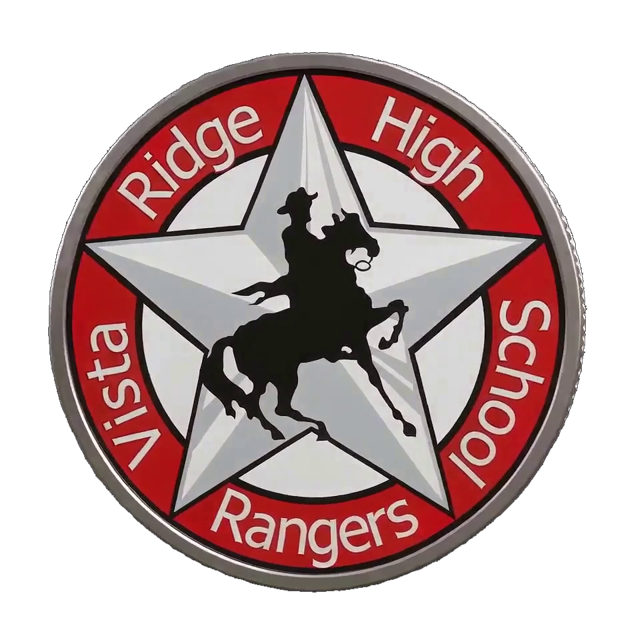
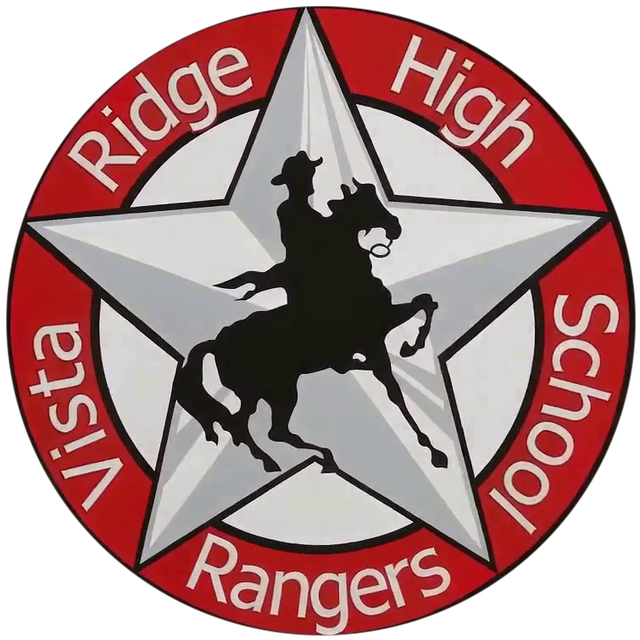
Crop coin faces tighter to remove the metallic ridged rim
Radial pixel sampling across 8+ angles found the flat colored face
(blue/red) extends reliably to ~r=416 (front) / ~r=370 (back) before the
knurled metal rim begins; the earlier crop mistakenly included that rim,
producing the "residual mess" / non-round edge the user flagged. Now
crops end right at the flat face boundary — clean perfect circle, no rim.

diff --git a/index.html b/index.html
@@ -9,8 +9,8 @@
 <body>
   <div id="coin-loader" class="coin-loader" aria-hidden="true">
     <div id="coin-loader-coin" class="coin-loader-coin">
-      <img class="coin-face coin-face-front" src="/assets/images/coin-loader.png?v=3" alt="" />
-      <img class="coin-face coin-face-back" src="/assets/images/coin-loader-back.png?v=3" alt="" />
+      <img class="coin-face coin-face-front" src="/assets/images/coin-loader.png?v=4" alt="" />
+      <img class="coin-face coin-face-back" src="/assets/images/coin-loader-back.png?v=4" alt="" />
     </div>
     <div id="coin-loader-count" class="coin-loader-count">3</div>
   </div>
@@ -22,7 +22,7 @@
     <section class="hero">
       <div class="hero-media">
         <video id="hero-video" class="hero-video" autoplay muted playsinline preload="none">
-          <source src="/assets/video/hero-bg.mp4?v=3" type="video/mp4" />
+          <source src="/assets/video/hero-bg.mp4?v=4" type="video/mp4" />
         </video>
         <div class="hero-gradient"></div>
       </div>

diff --git a/src/data/site-config.js b/src/data/site-config.js
@@ -9,7 +9,7 @@
 // browsers and GitHub's CDN can go on serving old cached bytes indefinitely
 // after we update one of these files. Bump this any time you replace a
 // video/image in public/assets/ so the URL changes and caches bust.
-export const ASSET_VERSION = 3;
+export const ASSET_VERSION = 4;
 
 export const SITE = {
   chapterName: 'Vista Ridge DECA',
